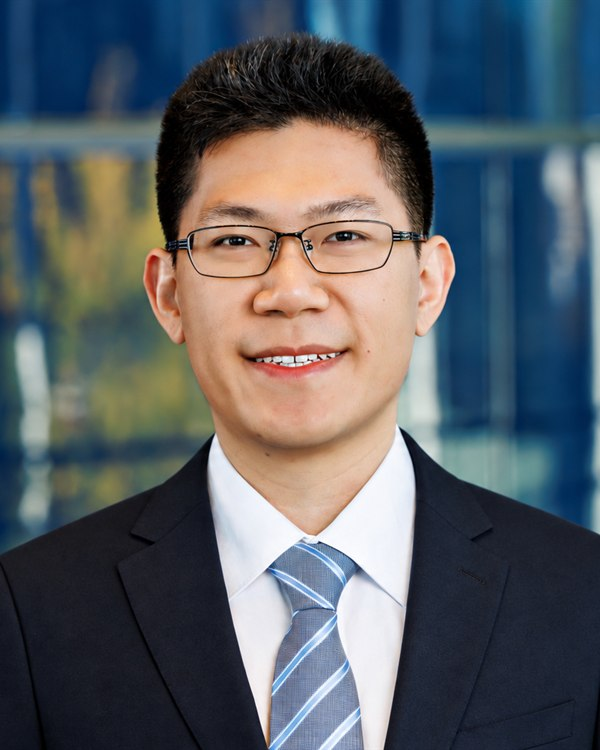
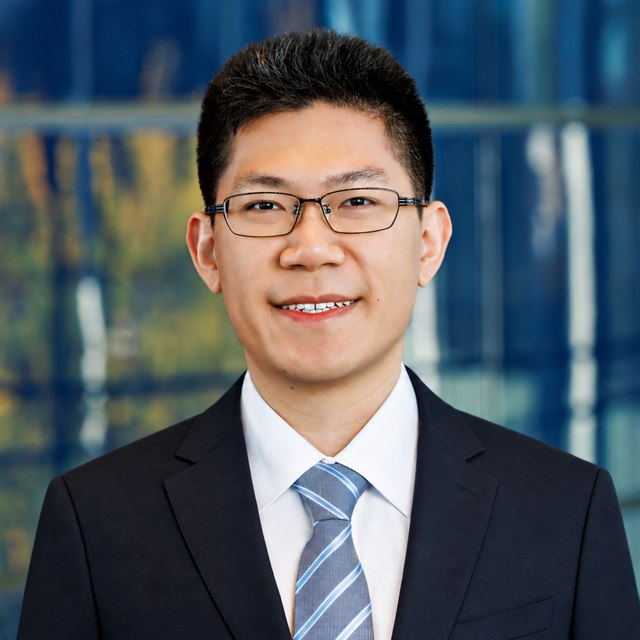
Widen layout to 1000px; square headshot showing both shoulders

diff --git a/assets/css/style.css b/assets/css/style.css
@@ -4,7 +4,7 @@
   --accent: #1a4d8f;
   --rule: #e2e2e2;
   --bg: #fff;
-  --max-width: 860px;
+  --max-width: 1000px;
 }
 
 * { box-sizing: border-box; }
@@ -46,8 +46,8 @@ a:hover { text-decoration: underline; }
   padding: 2.5rem 0 2rem;
 }
 .headshot {
-  flex: 0 0 220px;
-  width: 220px;
+  flex: 0 0 260px;
+  width: 260px;
   height: auto;
   border-radius: 6px;
 }
@@ -100,5 +100,5 @@ a:hover { text-decoration: underline; }
 /* Stack headshot above bio on narrow screens */
 @media (max-width: 640px) {
   .intro { flex-direction: column; gap: 1.25rem; }
-  .headshot { width: 180px; flex-basis: auto; }
+  .headshot { width: 220px; flex-basis: auto; }
 }
